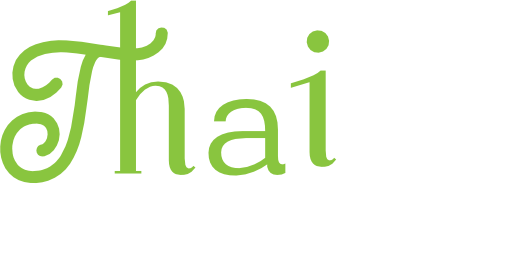
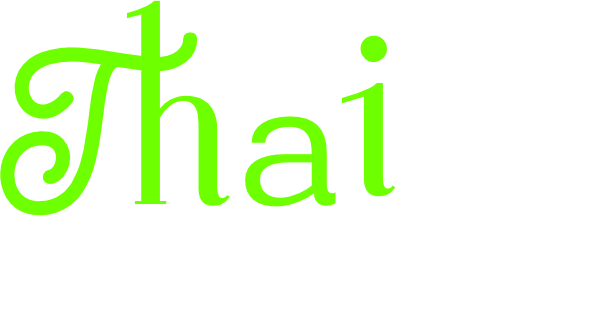
style: change image title and change color sidebar and word and change font

diff --git a/src/components/Landing/Sidebar.tsx b/src/components/Landing/Sidebar.tsx
@@ -1,20 +1,29 @@
 import { Bars3Icon, XMarkIcon } from "@heroicons/react/24/outline";
+import clsx from "clsx";
 import React, { useEffect, useRef, useState } from "react";
 
 export default function Sidebar() {
   const [isOpen, setIsOpen] = useState(false);
 
   const menus = [
-    { id: 1, section: "home", name: "Home" },
-    { id: 2, section: "small-plates", name: "Small Plates" },
-    { id: 3, section: "thai-street", name: "Thai Street" },
-    { id: 4, section: "all-time-favorites", name: "All Time favorites" },
-    { id: 5, section: "gift-card", name: "Gift Cards" },
-    { id: 6, section: "car-te-ring", name: "CarTeRing" },
-    { id: 7, section: "gallery", name: "Gallery" },
-    { id: 8, section: "#", name: "Delivery" },
-    { id: 9, section: "#", name: "Reservation" },
-    { id: 10, section: "#", name: "Pickup" },
+    { id: 1, url: "", section: "home", name: "Home", subMenu: [] },
+    {
+      id: 2,
+      url: "",
+      section: "#",
+      name: "Menu",
+      subMenu: [
+        { id: 1, section: "small-plates", name: "Small Plates" },
+        { id: 2, section: "thai-street", name: "Thai Street" },
+        { id: 3, section: "all-time-favorites", name: "All Time favorites" },
+      ],
+    },
+    { id: 3, url: "", section: "gift-card", name: "Gift Cards", subMenu: [] },
+    { id: 4, url: "", section: "car-te-ring", name: "CarTeRing", subMenu: [] },
+    { id: 5, url: "", section: "gallery", name: "Gallery", subMenu: [] },
+    { id: 6, url: "", section: "#", name: "Delivery", subMenu: [] },
+    { id: 7, url: "", section: "#", name: "Reservation", subMenu: [] },
+    { id: 8, url: "", section: "#", name: "Pickup", subMenu: [] },
   ];
 
   const toggleSidebar = () => {
@@ -48,26 +57,34 @@ export default function Sidebar() {
   return (
     <div
       ref={sidebarRef}
-      className={`z-[999] fixed h-full  text-white ${
-        isOpen ? "w-64 bg-gray-800" : "w-16"
+      className={`z-[999] fixed h-full text-white ${
+        isOpen ? "w-64 bg-[#383838]" : "w-24"
       } transition-all duration-300 ease-in-out`}
     >
-      <button className="w-[50px] h-[50px] p-2" onClick={toggleSidebar}>
+      <button
+        className={clsx(isOpen ? "w-[50px]" : "w-[100px]", " h-[50px] p-2")}
+        onClick={toggleSidebar}
+      >
         {isOpen ? (
-          <XMarkIcon className="text-white hover:opacity-50" />
+          <XMarkIcon className="text-white hover:opacity-50 " />
         ) : (
-          <Bars3Icon className="text-white hover:opacity-50" />
+          <div className="flex flex-row items-center">
+            <p className="text-xs font-bold font-syn">menu</p>
+            <Bars3Icon className="text-white hover:opacity-50]" />
+          </div>
         )}
       </button>
       {isOpen && (
-        <div className="p-4">
-          {menus.map((menu, index) => (
-            <>
-              {index === 7 && <div className="h-[2px] bg-slate-700" />}
-              <div className="py-2 hover:text-green-400 hover:font-bold cursor-pointer">
+        <div className="px-4 pb-4">
+          {menus.map((menu) => (
+            <div key={menu.id}>
+              {menu.name === "Delivery" && (
+                <div className="h-[2px] bg-[#4b4b4b]" />
+              )}
+              <div className="py-1">
                 <a
                   href={`#${menu.section}`}
-                  className="text-sm font-syn"
+                  className="text-sm font-syn hover:text-green-400 hover:font-bold cursor-pointer"
                   onClick={(e) => {
                     e.preventDefault();
                     scrollToMenu(menu.section);
@@ -75,8 +92,24 @@ export default function Sidebar() {
                 >
                   {menu.name}
                 </a>
+                {menu.subMenu.length > 0 && (
+                  <div className="mt-2 ml-4 flex flex-col gap-2">
+                    {menu.subMenu.map((subMenu) => (
+                      <a
+                        href={`#${subMenu.section}`}
+                        className="text-sm font-syn hover:text-green-400 hover:font-bold cursor-pointer"
+                        onClick={(e) => {
+                          e.preventDefault();
+                          scrollToMenu(subMenu.section);
+                        }}
+                      >
+                        {subMenu.name}
+                      </a>
+                    ))}
+                  </div>
+                )}
               </div>
-            </>
+            </div>
           ))}
         </div>
       )}

diff --git a/src/components/Landing/SmallPlateSection.tsx b/src/components/Landing/SmallPlateSection.tsx
@@ -1,6 +1,5 @@
 import React, { useState } from "react";
 import { Parallax } from "react-scroll-parallax";
-import Image from "next/image";
 // Import Swiper React components
 import { Swiper, SwiperSlide } from "swiper/react";
 import SmallPlateImg from "../../Utils/SmallPlateImg";
@@ -13,6 +12,7 @@ import "swiper/css/effect-coverflow";
 import { EffectCoverflow, Autoplay } from "swiper/modules";
 
 import menu from "../../images/menu.png";
+import star from "../../images/stargreen.png";
 import smallPlates from "../../images/small-plate.png";
 import handblack from "../../images/hand-black.png";
 import bitong from "../../images/bitong.png";
@@ -27,14 +27,28 @@ function SmallPlateSection({}: Props) {
       <div className="flex flex-col items-center">
         <div className="flex justify-center mb-20">
           <div className="flex flex-col gap-6 items-center w-[180px] md:w-[300px] lg:w-[500px]">
-            <div className="flex justify-center w-[100px] md:w-[300px] lg:w-[500px]">
-              <img
-                data-aos="fade-up"
+            <div className="flex justify-center w-[100px] md:w-[300px] lg:w-[500px] lg:h-[150px] md:h-[120px] h-[40px]">
+              <div
+                className="flex items-start"
+                data-aos="fade-down"
                 data-aos-once="true"
-                src={menu.src}
-                alt={""}
-                loading="eager"
-              />
+              >
+                <img
+                  className="hover:animate-[spin_2s_ease-in-out]"
+                  src={star.src}
+                  alt={""}
+                  loading="eager"
+                />
+              </div>
+              <div className="flex items-end">
+                <img
+                  data-aos="fade-up"
+                  data-aos-once="true"
+                  src={menu.src}
+                  alt={""}
+                  loading="eager"
+                />
+              </div>
             </div>
             <div className="flex justify-center w-[180px] md:w-[300px] lg:w-[500px]">
               <img

diff --git a/src/components/Landing/HeaderSection.tsx b/src/components/Landing/HeaderSection.tsx
@@ -141,10 +141,11 @@ function HeaderSection({}: Props) {
                 alt={""}
                 loading="eager"
                 priority
+                className="drop-shadow-[0_5px_10px_rgba(1,76,47,0.8)]"
               />
             </motion.div>
           </Parallax>
-          <Parallax className="-ml-[120px] md:-ml-[250px] -mt-[40px] md:-mt-[85px] w-2/5 md:w-[400px]">
+          {/* <Parallax className="-ml-[120px] md:-ml-[250px] -mt-[40px] md:-mt-[85px] w-2/5 md:w-[400px]">
             <motion.div
               initial={{ opacity: 0, translateY: -100 }}
               animate={{ opacity: 1, translateY: 0 }}
@@ -164,8 +165,8 @@ function HeaderSection({}: Props) {
                 priority
               />
             </motion.div>
-          </Parallax>
-          <Parallax className="-mt-[100px] m:-mt-[130px] l:-mt-[150px] md:-mt-[320px] -mr-[80px] m:-mr-[90px] l:-mr-[100px] md:-mr-[180px] w-1/2 md:w-[450px]">
+          </Parallax> */}
+          {/* <Parallax className="-mt-[100px] m:-mt-[130px] l:-mt-[150px] md:-mt-[320px] -mr-[80px] m:-mr-[90px] l:-mr-[100px] md:-mr-[180px] w-1/2 md:w-[450px]">
             <motion.div
               initial={{ clipPath: "polygon(0 0, 0 100%, 0 100%, 0 0)" }}
               animate={{ clipPath: "polygon(0 0, 100% 0, 100% 100%, 0 100%)" }}
@@ -184,7 +185,7 @@ function HeaderSection({}: Props) {
                 priority
               />
             </motion.div>
-          </Parallax>
+          </Parallax> */}
         </div>
 
         <Parallax

diff --git a/src/components/Landing/GallerySection.tsx b/src/components/Landing/GallerySection.tsx
@@ -2,6 +2,9 @@ import React, { useState } from "react";
 import { Swiper, SwiperSlide } from "swiper/react";
 import SmallPlateImg from "../../Utils/SmallPlateImg";
 
+//image
+import galleryheader from "../../images/gallery.png";
+
 // Import Swiper styles
 import "swiper/css";
 import "swiper/css/effect-coverflow";
@@ -9,6 +12,7 @@ import "swiper/css/effect-coverflow";
 // import required modules
 import { EffectCoverflow, Autoplay } from "swiper/modules";
 import clsx from "clsx";
+import Image from "next/image";
 
 export default function GallerySection() {
   const [activeIndex, setActiveIndex] = useState(1);
@@ -17,10 +21,16 @@ export default function GallerySection() {
       id="gallery"
       className="mt-[150px] h-full w-full flex flex-col gap-16 items-center justify-center"
     >
-      <div data-aos="fade-up" data-aos-duration="500" data-aos-once="true">
-        <p className="text-8xl font-syn font-extrabold text-lime-500">
-          Gallery <br /> <span className="text-white">Baitong</span>
-        </p>
+      <div data-aos="fade-up" data-aos-once="true" >
+        <Image
+          className=" hover:drop-shadow-[0_5px_10px_rgba(4,255,158,0.8)] !transition-all !ease-in-out"
+          width={600}
+          height={600}
+          src={galleryheader.src}
+          alt={""}
+          loading="eager"
+          priority
+        />
       </div>
       <div>
         <Swiper

diff --git a/src/components/Landing/GiftCardSection.tsx b/src/components/Landing/GiftCardSection.tsx
@@ -80,11 +80,11 @@ function GiftCardSection({ }: Props) {
               </div>
             </Parallax>
             {/* Description */}
-            <div className={clsx("flex flex-col w-[520px] items-end font-uid")}>
+            <div className={clsx("flex flex-col w-[570px] items-end font-uid")}>
               <Parallax translateX={[10, -10]}>
                 <p
                   className={clsx(
-                    "text-white 2xl:text-2xl xl:text-xl lg:text-base md:text-sm l:text-sm m:text-sm text-xs"
+                    "text-white font-syn 2xl:text-xl xl:text-lg lg:text-base md:text-xs l:text-[9px] m:text-[9px] text-[8px]"
                   )}
                 >
                   Give your loved ones the gift of dining
@@ -93,7 +93,7 @@ function GiftCardSection({ }: Props) {
               <Parallax translateX={[-50, 50]}>
                 <p
                   className={clsx(
-                    "text-white 2xl:text-2xl xl:text-xl lg:text-base md:text-sm l:text-sm m:text-sm text-xs"
+                    "text-white font-syn 2xl:text-xl xl:text-lg lg:text-base md:text-xs l:text-[9px] m:text-[9px] text-[8px]"
                   )}
                 >
                   with Bai Tong gift card.

diff --git a/src/components/Landing/CarteringSection.tsx b/src/components/Landing/CarteringSection.tsx
@@ -227,7 +227,7 @@ function CarteringSection({}: Props) {
           {/* paragraph */}
           <div
             data-aos="fade-up"
-            className="flex z-10 flex-col gap-5 text-[#EDD202] text-lg ml-10 l:ml-0 "
+            className="flex z-10 flex-col gap-5 text-white text-lg ml-10 l:ml-0 "
           >
             <div className="font-bold text-2xl font-din">
               Looking for
@@ -286,7 +286,7 @@ function CarteringSection({}: Props) {
                       loading="eager"
                     />
                   </div>
-                  <div className="w-[90px]">
+                  <div className="w-[89px]">
                     <img
                       width={300}
                       height={300}
@@ -306,7 +306,7 @@ function CarteringSection({}: Props) {
                       loading="eager"
                     />
                   </div>
-                  <div className="w-[42.3px]">
+                  <div className="w-[41.6px]">
                     <img
                       width={300}
                       height={300}
